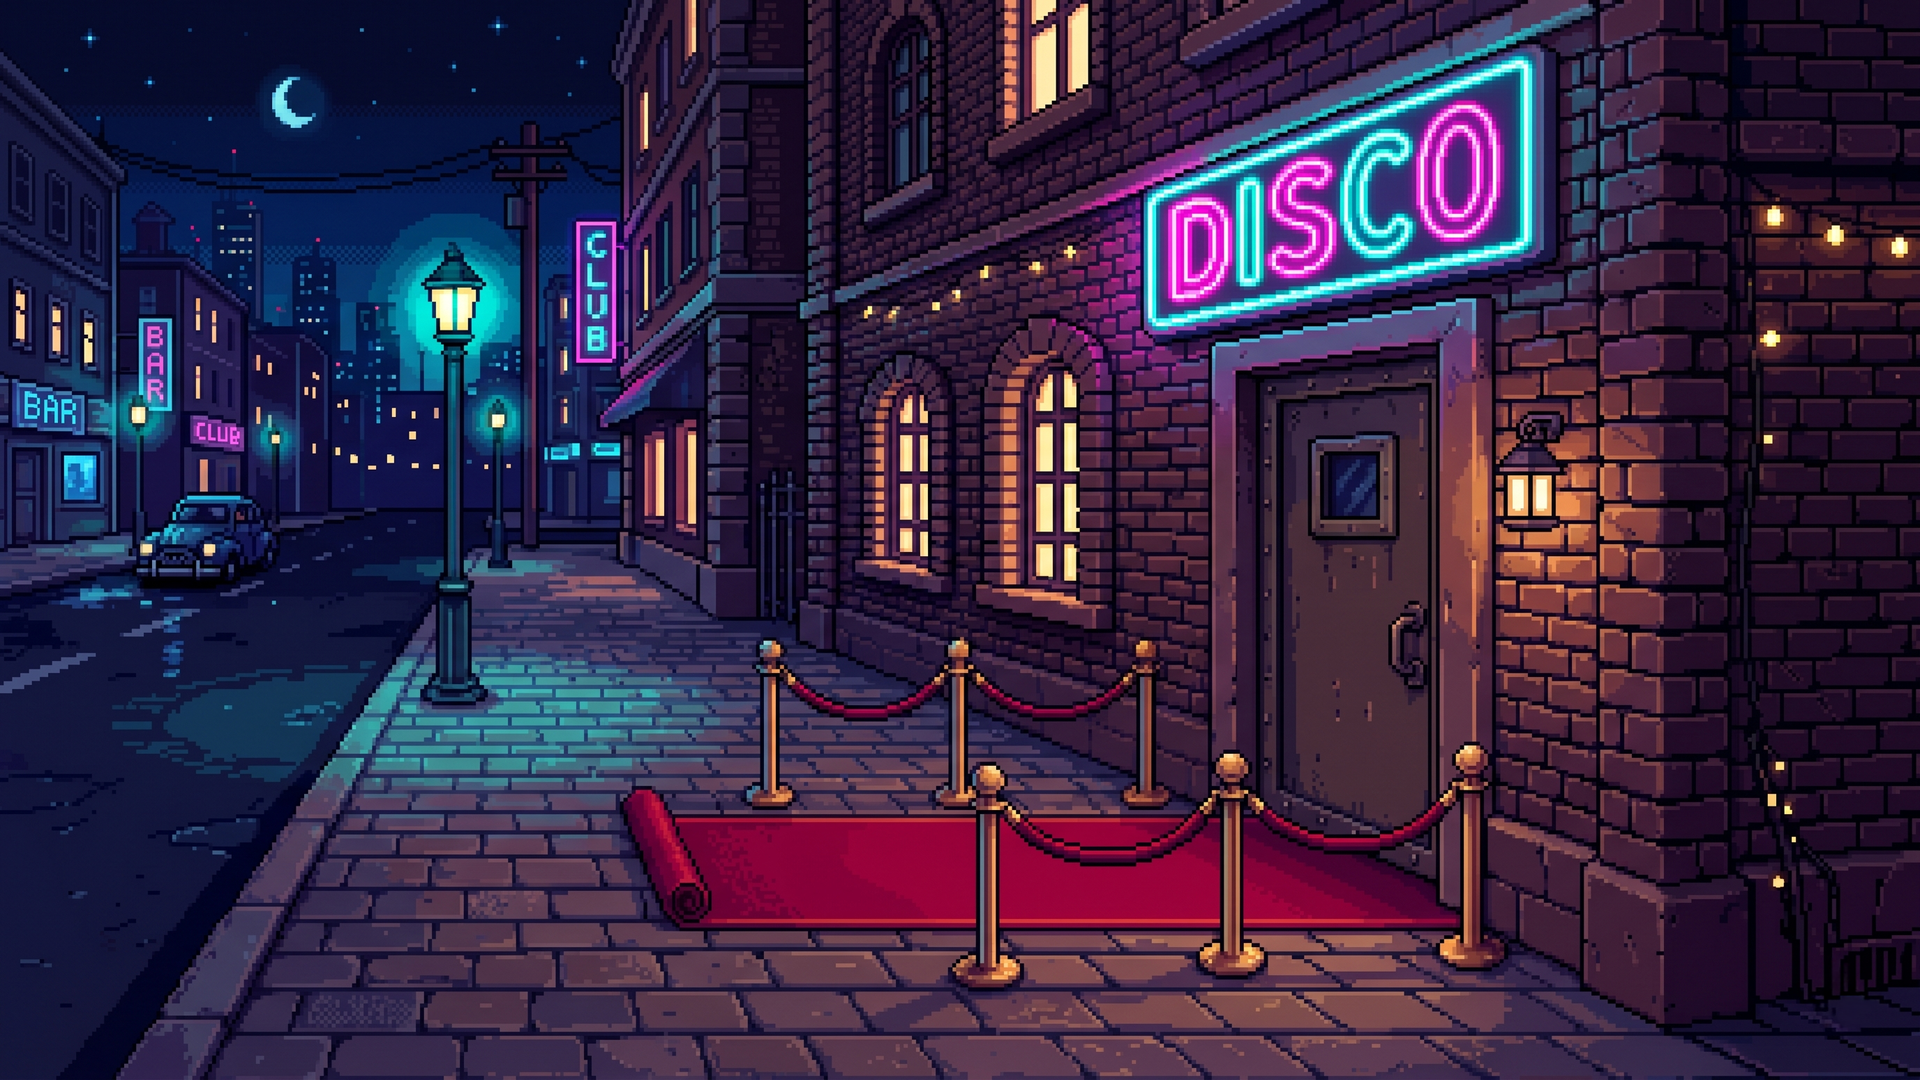
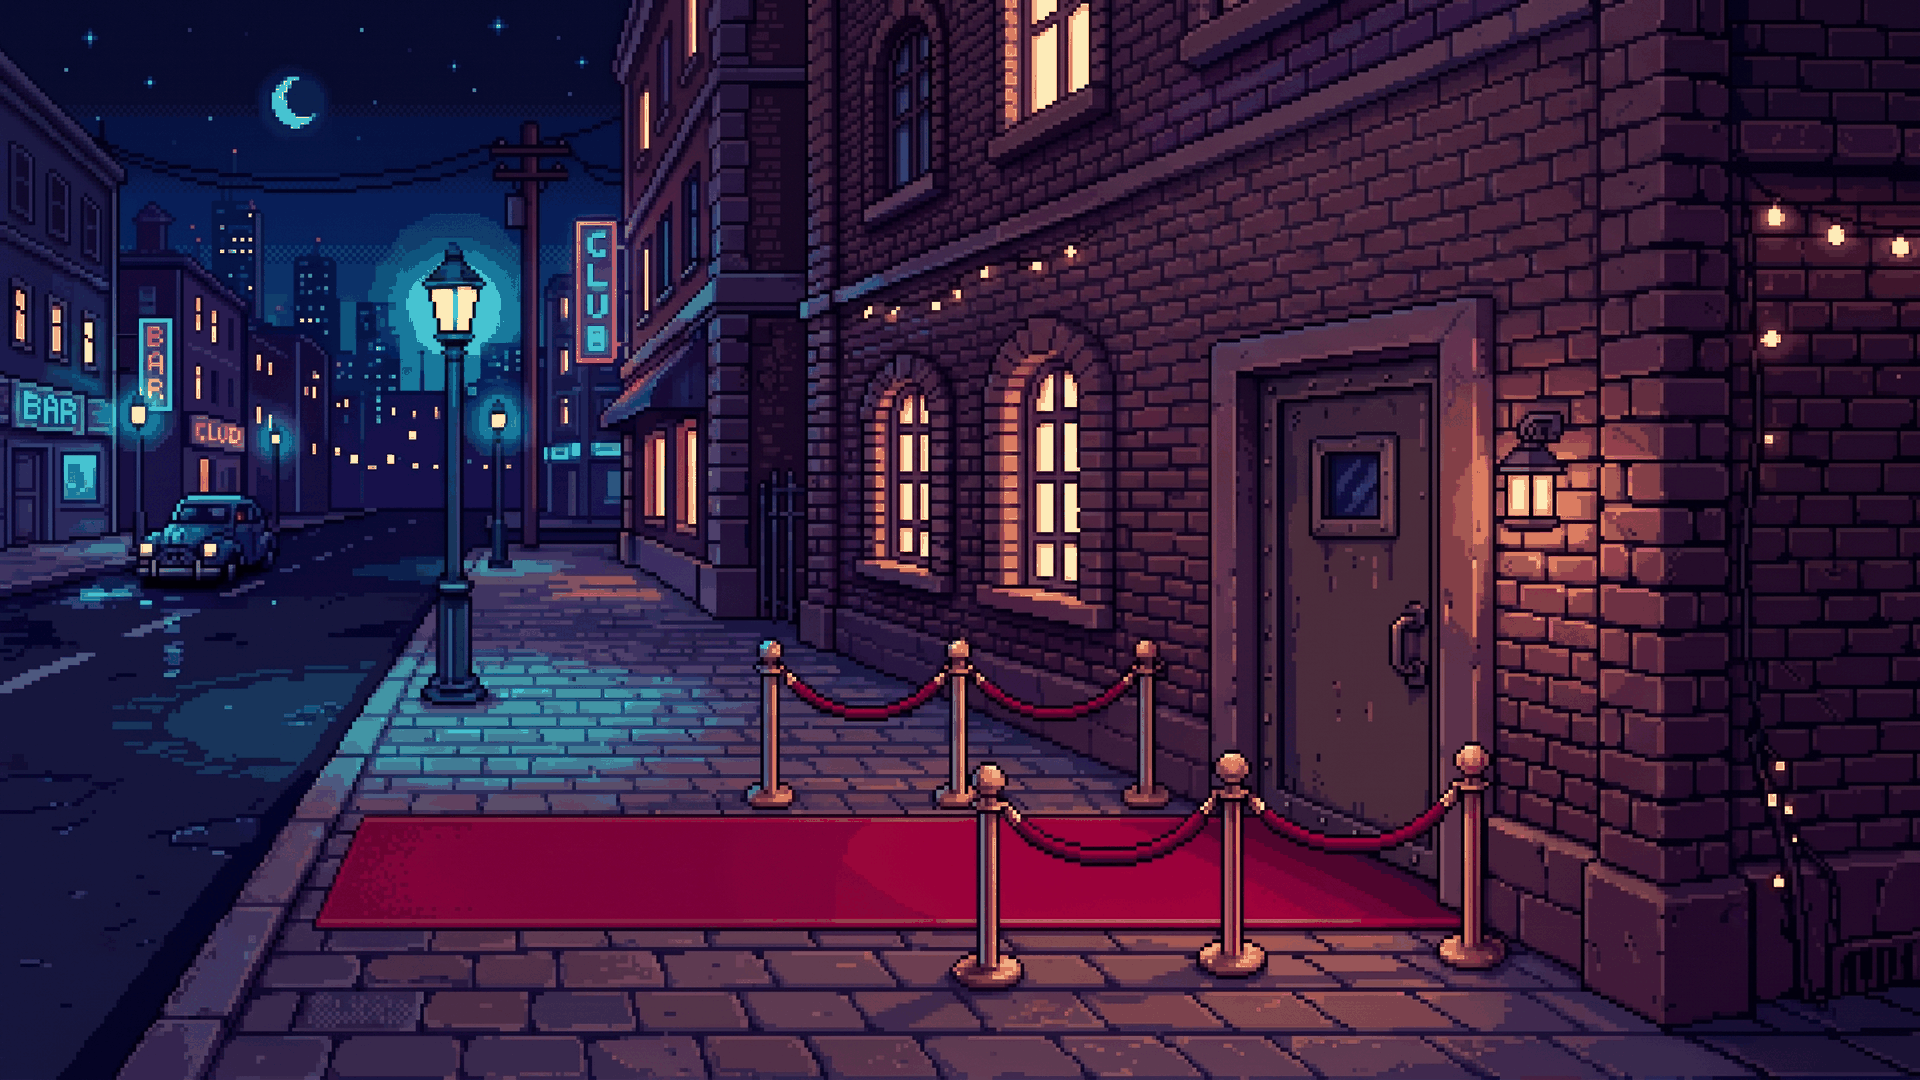
otimiza fundo da discoteca para 1080p

diff --git a/src/scenes/CenaPorta.js b/src/scenes/CenaPorta.js
@@ -152,7 +152,7 @@ class CenaPorta extends Phaser.Scene {
     // Título: a imagem do logótipo. setOrigin(0,0) = ancorado no canto sup. esq.
     // Para afinares: muda X, Y e a ESCALA (1 = tamanho original).
     const titulo = this.add.image(90, 90, 'titulo').setOrigin(0, 0);
-    titulo.setScale(1.7);
+    titulo.setScale(1.8);
 
     // Opções: texto a sério → clicável (e traduzível PT/EN depois).
     const jogar  = this.criarOpcao(120, 420, 'JOGAR',  () => this.iniciarJogo());
